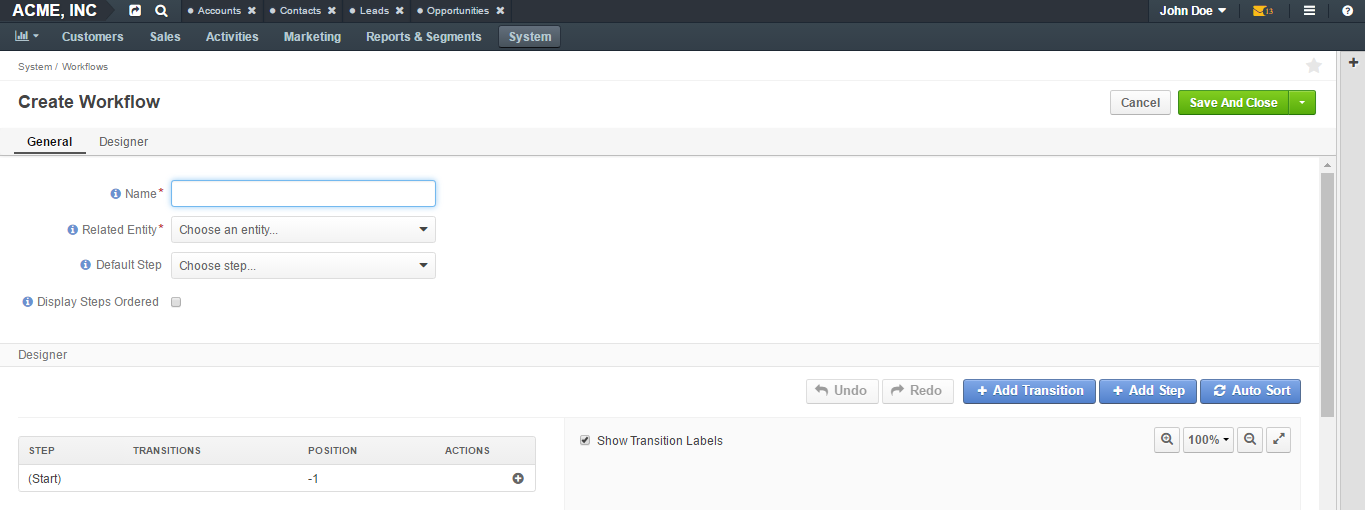
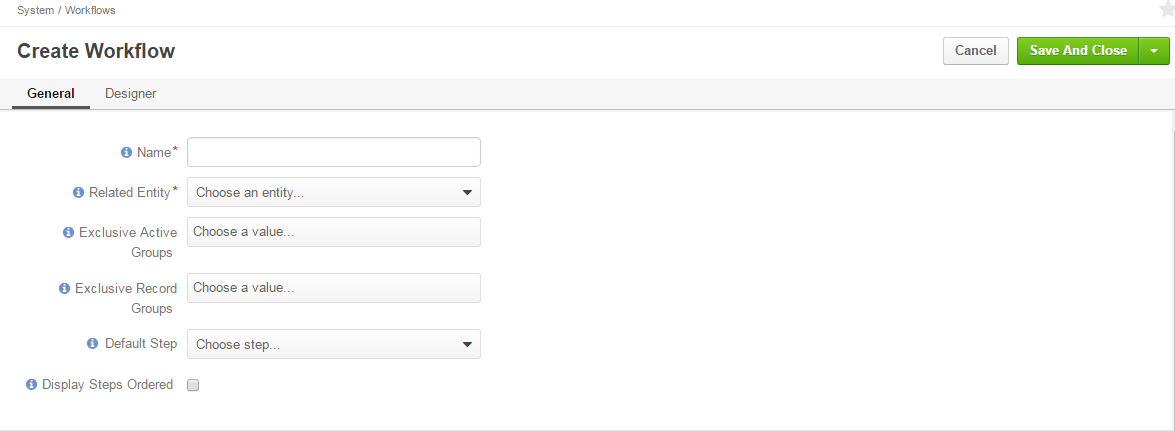
DOC-91:  (#9622)
* DOC-91: quotes + shipping information

* DOC-91: quotes + shipping information

* DOC-91: quotes docs

* DOC-91: Quotes > configuration

* DOC-91: quotes, shipping methods, payment methods.

* DOC-91: megred changes from master

- links added
- make file for local build on linux added

* DOC-91: Updated Screenshots

* DOC-91: minor updates.

* DOC-91: WIP

* WIP

* DOC-91: Minor Fixes in Shipping

* DOC-91: Minor Fixes in Payment

* DOC-91: Minor Fixes in Quotes

* WIP

* DOC-91: payment section finalized.

* DOC-91: shipping section finalized.

* DOC-91: Intermediate Update

* DOC-91: Intermediate Update

* DOC-91: Quote Management Workflow

* DOC-91: Quote Management Workflow

* DOC-91: WIP

* DOC-91: WIP

* DOC-91: WIP

* DOC-91: WIP

* DOC-91: DOC-77 actually.

* DOC-91: DOC-87 actually.

* DOC-91: Updated Quote Backoffice Workflow

* DOC-91: WIP

* DOC-91: Updated Quote Backoffice Workflow

* DOC-91: WIP merge

* DOC-91: Shipping and payment expression language is rather complex. Documented.

* DOC-91: updated expression syntax for shipping/payment rules.

* DOC-91: WIP

* DOC-91: Workflow-related updated in Commerce and CRM

* DOC-91: WIP

* DOC-91: WIP

* DOC-91: WIP

* DOC-91: WIP

* DOC-91: WIP

* DOC-91: final navigation updates

* DOC-91: final checks.

* DOC-91: WIP

* DOC-91: WIP

diff --git a/admin_guide/record_mgmt_config/workflow_management.rst b/admin_guide/record_mgmt_config/workflow_management.rst
@@ -82,6 +82,8 @@ To create a workflow for an entity:
 
   "**Name**", "The name of the workflow."
   "**Related Entity**", "A related entity is the entity for which the workflow is created. When the workflow is active, it can be launched and executed on the records of its related entity."
+  "**Exclusive Active Groups**","Exclusive Active Groups is a list of group names for which the current workflow should be active exclusively. Determining Exclusive Record Groups allows to set up mutually exclusive workflows in order to configure how they each correlate in the system. This makes it possible for only one workflow to be active, or for an entity record to use only one workflow from the group at a time."
+  "**Exclusive Record Groups**","Exclusive Record Groups specify how workflows apply to certain sets of records in order to limit their applicability. This lets users create specific workflows for specific segments (subsets) of records. For example, no concurrent transitions are possible among workflows in same exclusive record group."
   "**Default Step**", "Specifying the default steps launches the workflow in a particular step by default. For instance, when you activate Opportunity Management Flow, a newly created opportunity will appear as **open**, if **Open** was specified as the default step.
   If no step is selected, all newly created records will have no workflow associated with them, and it must be launched with one of the starting transitions."
   "**Display Steps Ordered**", "Display Steps Ordered box is not checked by default.
@@ -161,6 +163,7 @@ As an example, we are going to create an **Opportunity Support Flow** to show ho
 
 Add a Step
 ~~~~~~~~~~
+
 To add a step to a workflow, click :guilabel:`Add Step` in the top right corner of the chart. 
 
 |
